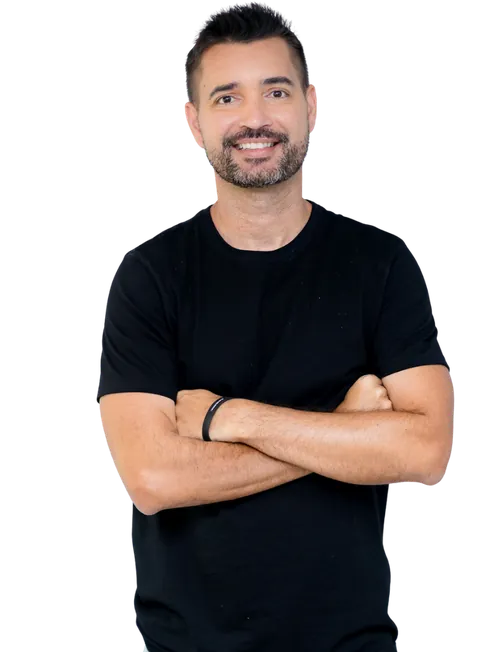
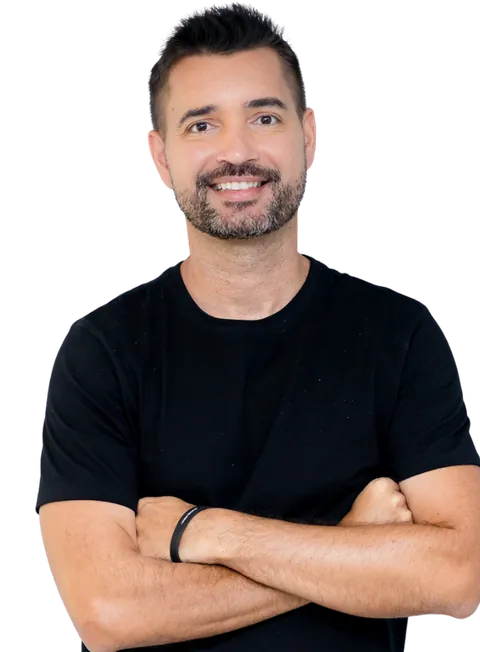
sejavitalicio: preço oficial abaixo do botão, botão Não sou aluno, tela de cadastro não encontrado, foto do Felipe com cabeça 10% maior que a da Ci

diff --git a/sejavitalicio/index.html b/sejavitalicio/index.html
@@ -51,7 +51,7 @@
 
   <link rel="preload" href="/black2026/img/montserrat-latin.woff2" as="font" type="font/woff2" crossorigin>
   <link rel="preload" href="/black2026/img/cilaine-480.webp" as="image" fetchpriority="high">
-  <link rel="preload" href="/black2026/img/felipe-bracos-480.webp" as="image" fetchpriority="high">
+  <link rel="preload" href="/black2026/img/felipe-bracos-480.webp?v=3" as="image" fetchpriority="high">
   <style>
 @font-face { font-family: "Montserrat"; font-style: normal; font-weight: 400 800; font-display: swap; src: url(/black2026/img/montserrat-latin.woff2) format("woff2");
   unicode-range: U+0000-00FF, U+0131, U+0152-0153, U+02BB-02BC, U+02C6, U+02DA, U+02DC, U+0304, U+0308, U+0329, U+2000-206F, U+20AC, U+2122, U+2191, U+2193, U+2212, U+2215, U+FEFF, U+FFFD; }
@@ -127,8 +127,10 @@ button { font: inherit; }
 .hero h1 .ouro { white-space: nowrap; }
 .hero__sub { margin: 12px auto 0; max-width: 620px; color: var(--texto-2); font-size: clamp(.92rem, 3.6vw, 1.08rem); line-height: 1.45; }
 .hero__sub strong { color: var(--texto); font-weight: 700; }
-.hero__cta { max-width: 460px; margin: 18px auto 0; }
-.hero__nota { margin: 10px 0 0; font-size: .85rem; color: var(--texto-2); }
+.hero__cta { max-width: 460px; margin: 20px auto 0; }
+.hero__preco { margin: 12px 0 0; font-size: 1rem; color: var(--texto-2); }
+.hero__preco strong { color: #fff; font-weight: 800; }
+.hero__nota { margin: 4px 0 0; font-size: .85rem; color: var(--texto-2); }
 .hero__nota strong { color: var(--ouro); font-weight: 700; }
 
 /* ---------- cursos ---------- */
@@ -200,8 +202,10 @@ body.modal-aberto .cta-fixo { transform: translateY(110%); }
 .modal h2 { margin: 0 0 8px; font-size: clamp(1.15rem, 5vw, 1.45rem); line-height: 1.2; font-weight: 800; text-transform: uppercase; padding: 0 22px; }
 .modal__sub { margin: 0 0 18px; color: var(--texto-2); font-size: .92rem; }
 .etapa[hidden] { display: none; }
-.abas { display: grid; grid-template-columns: 1fr 1fr; gap: 6px; padding: 5px; background: var(--card); border-radius: 14px; margin-bottom: 14px; }
-.aba { min-height: 46px; border: 0; border-radius: 10px; background: transparent; color: var(--texto-2); font-weight: 700; font-size: .9rem; cursor: pointer; }
+.abas { display: grid; grid-template-columns: 1fr 1fr 1fr; gap: 6px; padding: 5px; background: var(--card); border-radius: 14px; margin-bottom: 14px; }
+.aba { min-height: 46px; padding: 4px 6px; border: 0; border-radius: 10px; background: transparent; color: var(--texto-2); font-weight: 700; font-size: .86rem; line-height: 1.15; cursor: pointer; }
+.aba--nao-aluno { border: 1px solid #3a3a3a; color: #fff; }
+.aba--nao-aluno:hover { border-color: var(--ouro); }
 .aba[aria-selected="true"] { background: var(--ouro); color: #0b0b0b; }
 .campo { text-align: left; margin-bottom: 14px; }
 .campo label { display: block; margin: 0 0 6px; font-size: .82rem; font-weight: 700; color: var(--texto-2); }
@@ -265,15 +269,15 @@ body.modal-aberto .cta-fixo { transform: translateY(110%); }
             <figcaption>Cilaine Rodrigues<small>Docis</small></figcaption>
           </figure>
           <figure class="expert expert--felipe">
-            <img src="/black2026/img/felipe-bracos-480.webp" srcset="/black2026/img/felipe-bracos-480.webp 480w, /black2026/img/felipe-bracos-700.webp 700w" sizes="(max-width: 720px) 46vw, 290px" alt="Felipe Russo" width="480" height="652" fetchpriority="high">
+            <img src="/black2026/img/felipe-bracos-480.webp?v=3" srcset="/black2026/img/felipe-bracos-480.webp?v=3 480w, /black2026/img/felipe-bracos-700.webp?v=3 700w" sizes="(max-width: 720px) 46vw, 290px" alt="Felipe Russo" width="480" height="652" fetchpriority="high">
             <figcaption>Felipe Russo<small>Confeitaria 5 Estrelas</small></figcaption>
           </figure>
         </div>
 
         <h1>Todos os cursos da Docis + Felipe Russo com <span class="ouro">acesso vitalício!</span></h1>
-        <p class="hero__sub">Aprenda as receitas que vendem e as estratégias de iFood e delivery para transformar seu conhecimento em vendas. <strong>Uma única oportunidade para ter acesso aos cursos dos dois especialistas para sempre!</strong></p>
         <div class="hero__cta">
           <button type="button" class="btn" data-abrir="hero" id="cta-hero">Quero meu acesso vitalício</button>
+          <p class="hero__preco">Preço oficial: <strong>R$ 1.397</strong></p>
           <p class="hero__nota">Você pode ter um <strong>desconto especial</strong> se já é nosso aluno.</p>
         </div>
       </div>
@@ -366,8 +370,9 @@ body.modal-aberto .cta-fixo { transform: translateY(110%); }
         <p class="modal__sub">Se você já comprou algum curso da Docis ou do Felipe Russo, pode ter uma condição exclusiva nesta Black.</p>
         <form id="form-consulta" novalidate>
           <div class="abas" role="tablist" aria-label="Consultar por">
-            <button type="button" class="aba" role="tab" aria-selected="true" data-tipo="cpf">Consultar pelo CPF</button>
-            <button type="button" class="aba" role="tab" aria-selected="false" data-tipo="email">Pelo e-mail de compra</button>
+            <button type="button" class="aba" role="tab" aria-selected="true" data-tipo="cpf">Pelo CPF</button>
+            <button type="button" class="aba" role="tab" aria-selected="false" data-tipo="email">Pelo e-mail</button>
+            <button type="button" class="aba aba--nao-aluno" id="nao-aluno">Não sou aluno</button>
           </div>
           <div class="campo">
             <label for="valor" id="valor-rotulo">Seu CPF</label>
@@ -388,6 +393,6 @@ body.modal-aberto .cta-fixo { transform: translateY(110%); }
     </div>
   </div>
 
-  <script src="/sejavitalicio/app.js?v=3" defer></script>
+  <script src="/sejavitalicio/app.js?v=5" defer></script>
 </body>
 </html>

diff --git a/sejavitalicio/app.js b/sejavitalicio/app.js
@@ -30,7 +30,7 @@ const $ = (s) => document.querySelector(s);
 const brl = (v) => "R$ " + Number(v).toLocaleString("pt-BR");
 
 // ---------- eventos (nunca com CPF/e-mail) ----------
-const EVENTOS_META = { clique_cta: "CTAClick", inicio_identificacao: "IdentificacaoInicio", consulta_concluida: "ConsultaConcluida", categoria_oferta: "CategoriaOferta" };
+const EVENTOS_META = { clique_cta: "CTAClick", nao_aluno: "NaoSouAluno", inicio_identificacao: "IdentificacaoInicio", consulta_concluida: "ConsultaConcluida", categoria_oferta: "CategoriaOferta" };
 function evento(nome, dados = {}) {
   try {
     window.dataLayer = window.dataLayer || [];
@@ -74,7 +74,7 @@ document.addEventListener("keydown", (e) => { if (e.key === "Escape" && modal.cl
 const campo = $("#valor"), erro = $("#valor-erro");
 function setTipo(t) {
   tipo = t;
-  document.querySelectorAll(".aba").forEach((a) => a.setAttribute("aria-selected", String(a.dataset.tipo === t)));
+  document.querySelectorAll(".aba[data-tipo]").forEach((a) => a.setAttribute("aria-selected", String(a.dataset.tipo === t)));
   campo.value = ""; limparErro();
   if (t === "cpf") {
     $("#valor-rotulo").textContent = "Seu CPF";
@@ -85,7 +85,7 @@ function setTipo(t) {
   }
   campo.focus();
 }
-document.querySelectorAll(".aba").forEach((a) => a.addEventListener("click", () => setTipo(a.dataset.tipo)));
+document.querySelectorAll(".aba[data-tipo]").forEach((a) => a.addEventListener("click", () => setTipo(a.dataset.tipo)));
 
 function mascaraCpf(v) {
   const d = v.replace(/\D/g, "").slice(0, 11);
@@ -140,10 +140,24 @@ $("#form-consulta").addEventListener("submit", async (e) => {
   if (res.erro === "limite") return telaErro("Muitas consultas seguidas desta conexão. Aguarde alguns minutos e tente de novo.");
   if (!OFERTAS[res.categoria]) return telaErro("Não conseguimos concluir a consulta. Tente de novo em alguns segundos.");
 
-  evento("consulta_concluida", { tipo_consulta: tipo });
+  evento("consulta_concluida", { tipo_consulta: tipo, encontrado: res.categoria !== "novo" });
+  if (res.categoria === "novo") return telaNaoEncontrado();
   evento("categoria_oferta", { categoria: res.categoria, valor: res.preco });
   telaOferta(res, tipo === "email" ? valor.trim().toLowerCase() : "");
 });
+
+// CPF/e-mail sem compra: pede para conferir ou seguir como novo aluno
+function telaNaoEncontrado() {
+  const box = $("#etapa-resultado");
+  box.innerHTML = `<div class="erro-caixa"><div class="icone" aria-hidden="true">🔎</div>
+    <h2 class="res__titulo">Não encontramos seu cadastro</h2>
+    <p>Confira o ${tipo === "cpf" ? "CPF" : "e-mail"} digitado e tente novamente${tipo === "cpf" ? " ou consulte pelo e-mail da compra" : ""}.</p>
+    <button type="button" class="btn btn--branco" id="tentar-de-novo">Tentar novamente</button>
+    <div class="res__outro"><button type="button" class="link" id="link-nao-aluno">Clique aqui se você não for aluno</button></div></div>`;
+  mostrar("#etapa-resultado");
+  $("#tentar-de-novo").addEventListener("click", () => { mostrar("#etapa-form"); campo.focus(); campo.select(); });
+  $("#link-nao-aluno").addEventListener("click", irNaoAluno);
+}
 
 function telaErro(msg) {
   const box = $("#etapa-resultado");
@@ -190,6 +204,27 @@ function telaOferta(res, email) {
   }
   $("#outro").addEventListener("click", () => setTipoEVoltar());
 }
+// "Não sou aluno": sem consulta de cadastro, vai direto para o checkout da oferta cheia.
+// A aba é aberta já no clique (senão o bloqueador de pop-up barra) e recebe o link quando ele chega.
+async function irNaoAluno() {
+  if (enviando) return;
+  enviando = true;
+  evento("nao_aluno", {});
+  const aba = window.open("about:blank", "_blank");
+  mostrar("#etapa-carregando");
+  let res = null;
+  try { res = await consultar("nao_aluno", null); } catch (err) { /* tratado abaixo */ }
+  enviando = false;
+  if (!res || res.categoria !== "novo") { if (aba) aba.close(); return telaErro("Não conseguimos abrir o checkout agora. Tente de novo em alguns segundos."); }
+  evento("categoria_oferta", { categoria: res.categoria, valor: res.preco });
+  telaOferta(res, "");                                  // a página fica com a oferta aberta atrás do checkout
+  if (!res.checkout) { if (aba) aba.close(); return; }  // checkout ainda não configurado: fica a tela da oferta
+  const url = montarCheckout(res.checkout, res.categoria, "");
+  evento("clique_checkout", { categoria: res.categoria, valor: res.preco });
+  if (aba) { aba.opener = null; aba.location.href = url; } else location.href = url;
+}
+$("#nao-aluno").addEventListener("click", irNaoAluno);
+
 function setTipoEVoltar() { mostrar("#etapa-form"); setTipo(tipo === "cpf" ? "email" : "cpf"); }
 
 // ---------- botão fixo no celular: aparece quando o botão da primeira dobra sai da tela ----------
